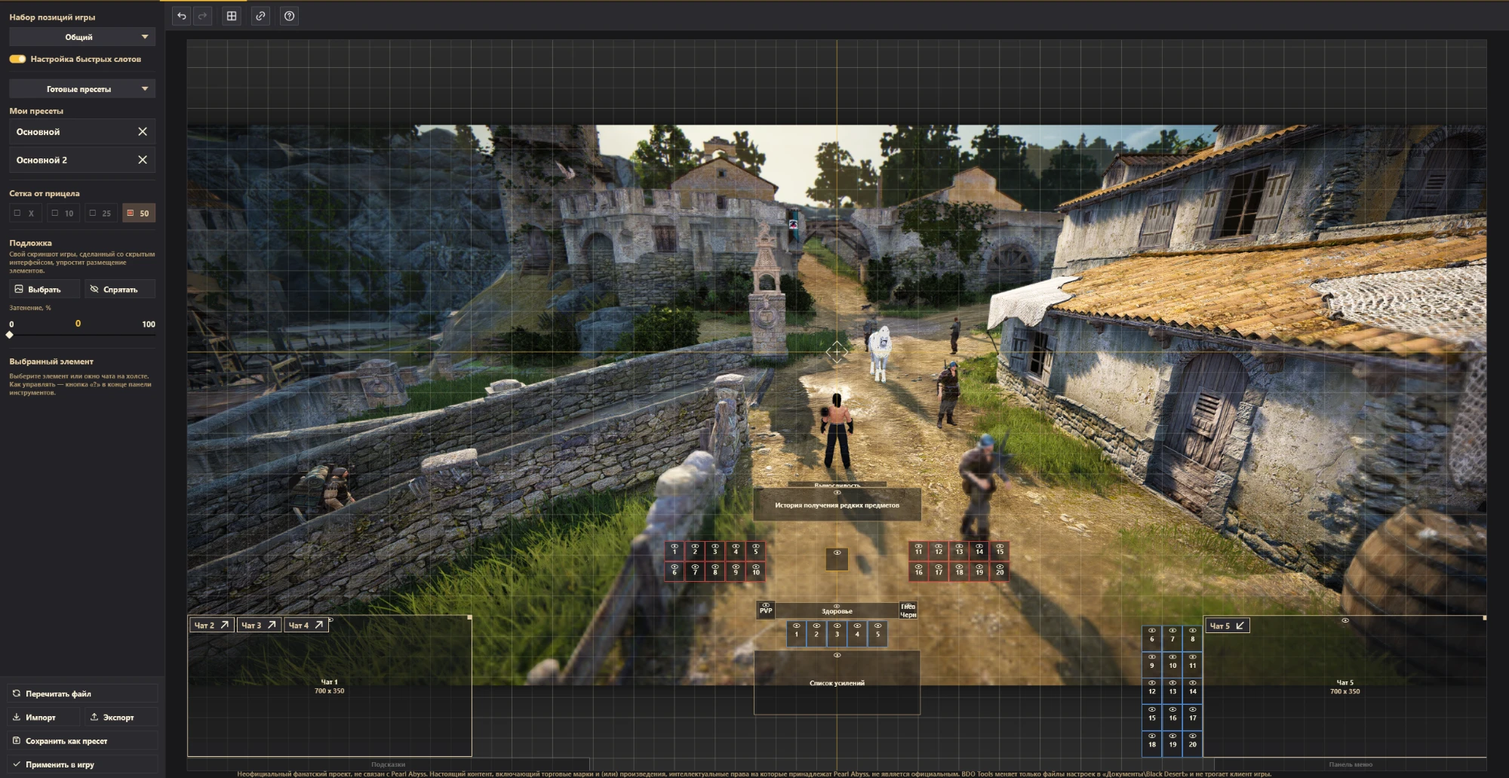
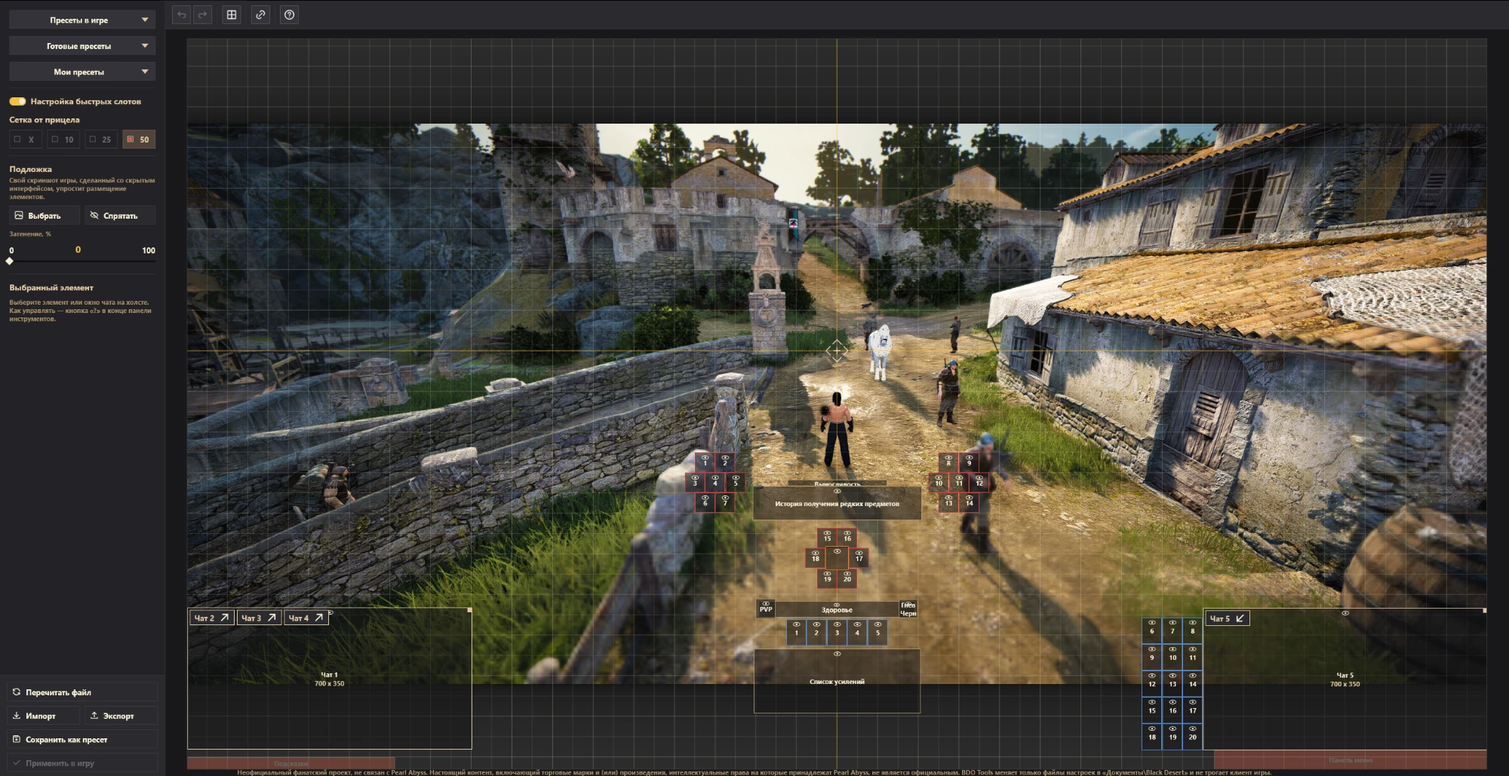
UI editor: preset dropdowns, preset replace, fixed element frames
- "Пресеты в игре", "Готовые пресеты", "Мои пресеты" are button dropdowns, in that order;
  own presets have a trash button in the list; no selected highlight in these lists
- save dialog can replace an existing own preset
- quick slot setting moved above the grid
- tips and menu bar frames: game-like heights and a transparent red fill
- DropdownSelect/OptionsMenu: trailing slot per option
- new editor screenshot in README

diff --git a/feature/uiEditor/src/commonMain/kotlin/com/layzen/bdotools/feature/uieditor/presentation/ui/sidebar/PresetList.kt b/feature/uiEditor/src/commonMain/kotlin/com/layzen/bdotools/feature/uieditor/presentation/ui/sidebar/PresetList.kt
@@ -1,15 +1,25 @@
 package com.layzen.bdotools.feature.uieditor.presentation.ui.sidebar
 
-import androidx.compose.foundation.layout.Arrangement
-import androidx.compose.foundation.layout.Column
+import androidx.compose.foundation.Image
+import androidx.compose.foundation.clickable
+import androidx.compose.foundation.interaction.MutableInteractionSource
+import androidx.compose.foundation.interaction.collectIsHoveredAsState
 import androidx.compose.foundation.layout.fillMaxWidth
+import androidx.compose.foundation.layout.size
 import androidx.compose.runtime.Composable
+import androidx.compose.runtime.getValue
+import androidx.compose.runtime.remember
 import androidx.compose.ui.Modifier
+import androidx.compose.ui.graphics.ColorFilter
+import androidx.compose.ui.input.pointer.PointerIcon
+import androidx.compose.ui.input.pointer.pointerHoverIcon
+import androidx.compose.ui.semantics.Role
 import com.layzen.bdotools.feature.uieditor.domain.BuiltInLayout
 import com.layzen.bdotools.feature.uieditor.presentation.event.SlotsEvent
 import com.layzen.bdotools.feature.uieditor.presentation.state.PresetRef
 import com.layzen.bdotools.feature.uieditor.presentation.state.SlotsState
 import com.layzen.bdotools.feature.uieditor.resources.Res
+import com.layzen.bdotools.feature.uieditor.resources.menu_delete
 import com.layzen.bdotools.feature.uieditor.resources.slots_preset_arc
 import com.layzen.bdotools.feature.uieditor.resources.slots_preset_5plus5and5plus5
 import com.layzen.bdotools.feature.uieditor.resources.slots_preset_game
@@ -19,45 +29,58 @@ import com.layzen.bdotools.feature.uieditor.resources.slots_preset_ring
 import com.layzen.bdotools.feature.uieditor.resources.slots_preset_sides
 import com.layzen.bdotools.feature.uieditor.resources.slots_preset_wings
 import com.layzen.bdotools.feature.uieditor.resources.slots_presets
+import com.layzen.bdotools.feature.uieditor.resources.slots_user_preset_delete
 import com.layzen.bdotools.feature.uieditor.resources.slots_user_presets
 import com.layzen.bdotools.feature.uieditor.resources.slots_user_presets_empty
-import com.layzen.bdotools.uikit.components.CloseButton
 import com.layzen.bdotools.uikit.components.DescriptionText
 import com.layzen.bdotools.uikit.components.DropdownSelect
-import com.layzen.bdotools.uikit.components.MenuItem
-import com.layzen.bdotools.uikit.components.SectionHeader
 import com.layzen.bdotools.uikit.theme.AppTheme
 import org.jetbrains.compose.resources.StringResource
+import org.jetbrains.compose.resources.painterResource
 import org.jetbrains.compose.resources.stringResource
 
 /**
- * Кнопка «Готовые пресеты» со списком: раскладка из файла игры и готовые раскладки слотов перезарядки.
- * Ниже — пресеты пользователя.
+ * Списки «Готовые пресеты» (раскладка из файла игры и готовые раскладки слотов перезарядки) и «Мои пресеты»
+ * (сохранённые раскладки, у каждой — корзина удаления). Пока своих пресетов нет — подсказка, где они лежат.
  */
 @Composable
 internal fun PresetList(state: SlotsState, onEvent: (SlotsEvent) -> Unit) {
-    BuiltInPresets(state.activePreset, onEvent)
-    Column(verticalArrangement = Arrangement.spacedBy(AppTheme.dimens.spaceXs)) {
-        SectionHeader(stringResource(Res.string.slots_user_presets))
-        if (state.presets.isEmpty()) DescriptionText(stringResource(Res.string.slots_user_presets_empty))
-        state.presets.forEach { preset ->
-            // Крестик удаления — внутри пункта, справа, на месте плашки
-            MenuItem(
-                preset.name,
-                onClick = { onEvent(SlotsEvent.UseUserPreset(preset.name)) },
-                selected = state.activePreset == PresetRef.User(preset.name),
-                badge = { CloseButton(onClick = { onEvent(SlotsEvent.RequestDelete(preset.name)) }) },
-            )
-        }
-    }
+    BuiltInPresets(onEvent)
+    DropdownSelect(
+        selected = null,
+        options = state.presets.map { it.name },
+        onSelect = { onEvent(SlotsEvent.UseUserPreset(it)) },
+        label = { it },
+        modifier = Modifier.fillMaxWidth(),
+        fieldText = stringResource(Res.string.slots_user_presets),
+        trailing = { name -> DeleteButton { onEvent(SlotsEvent.RequestDelete(name)) } },
+    )
+    if (state.presets.isEmpty()) DescriptionText(stringResource(Res.string.slots_user_presets_empty))
 }
 
-/** Готовые раскладки — выпадающим списком в стиле поля выбора, чтобы не занимать меню; выбранная подсвечена. */
+/** Корзина у пресета в списке: спрашивает подтверждение и удаляет; при наведении золотая. */
 @Composable
-private fun BuiltInPresets(active: PresetRef?, onEvent: (SlotsEvent) -> Unit) {
+private fun DeleteButton(onClick: () -> Unit) {
+    val interaction = remember { MutableInteractionSource() }
+    val hovered by interaction.collectIsHoveredAsState()
+    val colors = AppTheme.colors
+    Image(
+        painterResource(Res.drawable.menu_delete),
+        contentDescription = stringResource(Res.string.slots_user_preset_delete),
+        modifier = Modifier
+            .size(AppTheme.dimens.iconSize)
+            .pointerHoverIcon(PointerIcon.Hand)
+            .clickable(interaction, indication = null, role = Role.Button, onClick = onClick),
+        colorFilter = ColorFilter.tint(if (hovered) colors.accentGold else colors.textPrimary),
+    )
+}
+
+/** Готовые раскладки — выпадающим списком в стиле поля выбора, чтобы не занимать меню. */
+@Composable
+private fun BuiltInPresets(onEvent: (SlotsEvent) -> Unit) {
     val options = listOf<PresetRef>(PresetRef.Game) + BuiltInLayout.entries.map { PresetRef.BuiltIn(it) }
     DropdownSelect(
-        selected = active?.takeIf { it in options },
+        selected = null,
         options = options,
         onSelect = { ref -> onEvent(if (ref is PresetRef.BuiltIn) SlotsEvent.UseBuiltIn(ref.layout) else SlotsEvent.UseGameLayout) },
         label = { ref -> stringResource(if (ref is PresetRef.BuiltIn) ref.layout.title else Res.string.slots_preset_game) },

diff --git a/feature/uiEditor/src/commonMain/kotlin/com/layzen/bdotools/feature/uieditor/presentation/ui/dialog/SaveAsDialog.kt b/feature/uiEditor/src/commonMain/kotlin/com/layzen/bdotools/feature/uieditor/presentation/ui/dialog/SaveAsDialog.kt
@@ -13,20 +13,27 @@ import com.layzen.bdotools.feature.uieditor.presentation.ui.SlotsDimens
 import com.layzen.bdotools.feature.uieditor.resources.Res
 import com.layzen.bdotools.feature.uieditor.resources.slots_cancel
 import com.layzen.bdotools.feature.uieditor.resources.slots_save
+import com.layzen.bdotools.feature.uieditor.resources.slots_save_as_replace
+import com.layzen.bdotools.feature.uieditor.resources.slots_save_replace
 import com.layzen.bdotools.feature.uieditor.resources.slots_save_as_description
 import com.layzen.bdotools.feature.uieditor.resources.slots_save_as_name
 import com.layzen.bdotools.feature.uieditor.resources.slots_save_as_title
 import com.layzen.bdotools.uikit.components.ActionButton
 import com.layzen.bdotools.uikit.components.DescriptionText
+import com.layzen.bdotools.uikit.components.DropdownSelect
 import com.layzen.bdotools.uikit.components.InputField
 import com.layzen.bdotools.uikit.components.ModalWindow
 import com.layzen.bdotools.uikit.theme.AppTheme
 import org.jetbrains.compose.resources.stringResource
 
-/** Название нового пресета. */
+/**
+ * Сохранение раскладки пресетом: новое название или замена своего пресета [presets] из списка — выбор подставляет
+ * его название. Если название совпадает с существующим, кнопка — «Заменить».
+ */
 @Composable
-internal fun SaveAsDialog(dialog: SlotsDialog.SaveAs, onEvent: (SlotsEvent) -> Unit) {
+internal fun SaveAsDialog(dialog: SlotsDialog.SaveAs, presets: List<String>, onEvent: (SlotsEvent) -> Unit) {
     val close = { onEvent(SlotsEvent.CloseDialog) }
+    val replacing = dialog.name.trim() in presets
     ModalWindow(
         title = stringResource(Res.string.slots_save_as_title),
         onDismissRequest = close,
@@ -34,7 +41,7 @@ internal fun SaveAsDialog(dialog: SlotsDialog.SaveAs, onEvent: (SlotsEvent) -> U
         footer = {
             ActionButton(stringResource(Res.string.slots_cancel), onClick = close)
             ActionButton(
-                stringResource(Res.string.slots_save),
+                stringResource(if (replacing) Res.string.slots_save_replace else Res.string.slots_save),
                 onClick = { onEvent(SlotsEvent.ConfirmSaveAs) },
                 enabled = dialog.name.isNotBlank(),
             )
@@ -47,6 +54,16 @@ internal fun SaveAsDialog(dialog: SlotsDialog.SaveAs, onEvent: (SlotsEvent) -> U
                 modifier = Modifier.fillMaxWidth(),
                 placeholder = stringResource(Res.string.slots_save_as_name),
             )
+            if (presets.isNotEmpty()) {
+                DropdownSelect(
+                    selected = null,
+                    options = presets,
+                    onSelect = { onEvent(SlotsEvent.SaveAsNameChanged(it)) },
+                    label = { it },
+                    modifier = Modifier.fillMaxWidth(),
+                    fieldText = stringResource(Res.string.slots_save_as_replace),
+                )
+            }
             DescriptionText(stringResource(Res.string.slots_save_as_description))
         }
     }

diff --git a/feature/uiEditor/src/commonMain/kotlin/com/layzen/bdotools/feature/uieditor/presentation/ui/sidebar/GamePresetSettings.kt b/feature/uiEditor/src/commonMain/kotlin/com/layzen/bdotools/feature/uieditor/presentation/ui/sidebar/GamePresetSettings.kt
@@ -1,29 +1,29 @@
 package com.layzen.bdotools.feature.uieditor.presentation.ui.sidebar
 
-import androidx.compose.foundation.layout.Arrangement
-import androidx.compose.foundation.layout.Column
+import androidx.compose.foundation.layout.fillMaxWidth
 import androidx.compose.runtime.Composable
+import androidx.compose.ui.Modifier
 import com.layzen.bdotools.feature.uieditor.presentation.event.SlotsEvent
 import com.layzen.bdotools.feature.uieditor.presentation.state.SlotsState
 import com.layzen.bdotools.feature.uieditor.presentation.ui.gamePresetTitle
 import com.layzen.bdotools.feature.uieditor.resources.Res
 import com.layzen.bdotools.feature.uieditor.resources.slots_game_preset
 import com.layzen.bdotools.uikit.components.DropdownSelect
-import com.layzen.bdotools.uikit.components.SectionHeader
-import com.layzen.bdotools.uikit.theme.AppTheme
 import org.jetbrains.compose.resources.stringResource
 
-/** Какой набор позиций из файла игры открыт в редакторе: общий или «Пресет 1–3». Пресеты, которых нет в файле, не показываются. */
+/**
+ * «Пресеты в игре» — список наборов позиций из файла игры: общий или «Пресет 1–3».
+ * Пресеты, которых нет в файле, не показываются.
+ */
 @Composable
 internal fun GamePresetSettings(state: SlotsState, onEvent: (SlotsEvent) -> Unit) {
     val loaded = state.loaded ?: return
-    Column(verticalArrangement = Arrangement.spacedBy(AppTheme.dimens.spaceS)) {
-        SectionHeader(stringResource(Res.string.slots_game_preset))
-        DropdownSelect(
-            selected = loaded.edited,
-            options = loaded.presets.keys.sorted(),
-            onSelect = { onEvent(SlotsEvent.SelectGamePreset(it)) },
-            label = { gamePresetTitle(it) },
-        )
-    }
+    DropdownSelect(
+        selected = null,
+        options = loaded.presets.keys.sorted(),
+        onSelect = { onEvent(SlotsEvent.SelectGamePreset(it)) },
+        label = { gamePresetTitle(it) },
+        modifier = Modifier.fillMaxWidth(),
+        fieldText = stringResource(Res.string.slots_game_preset),
+    )
 }

diff --git a/feature/uiEditor/src/commonMain/kotlin/com/layzen/bdotools/feature/uieditor/domain/FixedElement.kt b/feature/uiEditor/src/commonMain/kotlin/com/layzen/bdotools/feature/uieditor/domain/FixedElement.kt
@@ -1,16 +1,17 @@
 package com.layzen.bdotools.feature.uieditor.domain
 
 /**
- * Элемент интерфейса, который в игре не двигается: редактор только показывает его, чтобы не ставить на него слоты.
- * Прижат к нижнему углу экрана — правому, если [atRight]. Ширина — доля ширины экрана [widthShare] (примерно),
- * высота — [height] в UI-px. Замерено по скриншоту 2560×1440 при масштабе 0.8.
+ * Элемент интерфейса, который в игре не двигается и в файл не пишется («[не изменить]» в режиме правки игры):
+ * редактор только показывает его, чтобы не ставить на него слоты. Прижат к нижнему углу экрана — правому,
+ * если [atRight]. Ширина — доля ширины экрана [widthShare] (примерно), высота — [height] в UI-px.
+ * Замерено по скриншотам 2560×1440 при масштабе 0.8.
  */
 enum class FixedElement(val widthShare: Double, val height: Int, val atRight: Boolean) {
     /** Полоса подсказок «TIP» слева внизу. */
-    Tips(widthShare = 0.31, height = 34, atRight = false),
+    Tips(widthShare = 0.16, height = 30, atRight = false),
 
     /** Панель кнопок меню справа внизу. */
-    MenuBar(widthShare = 0.21, height = 34, atRight = true),
+    MenuBar(widthShare = 0.21, height = 48, atRight = true),
     ;
 
     /** Где элемент стоит на экране [screen], в UI-px от левого верхнего угла. */

diff --git a/platform/uikit/src/commonMain/kotlin/com/layzen/bdotools/uikit/components/OptionsMenu.kt b/platform/uikit/src/commonMain/kotlin/com/layzen/bdotools/uikit/components/OptionsMenu.kt
@@ -9,7 +9,8 @@ import com.layzen.bdotools.uikit.theme.AppTheme
 
 /**
  * Всплывающий список вариантов под элементом, к которому он привязан (ставится в тот же `Box`).
- * Выбранный вариант подсвечен золотом. [icon] — необязательная иконка слева от названия.
+ * Выбранный вариант подсвечен золотом. [icon] — необязательная иконка слева от названия, [trailing] — справа
+ * (например, кнопка удаления варианта: её нажатие не выбирает вариант).
  * Список не выше `optionsMenuMaxHeight`; длинный прокручивается, справа видна полоса прокрутки.
  */
 @Composable
@@ -22,6 +23,7 @@ fun <T> OptionsMenu(
     label: @Composable (T) -> String,
     modifier: Modifier = Modifier,
     icon: (@Composable (T) -> Unit)? = null,
+    trailing: (@Composable (T) -> Unit)? = null,
 ) {
     val scroll = rememberScrollState()
     MenuPopup(
@@ -34,6 +36,7 @@ fun <T> OptionsMenu(
             DropdownMenuItem(
                 text = { MenuOptionText(label(option), highlighted = option == selected) },
                 leadingIcon = icon?.let { { it(option) } },
+                trailingIcon = trailing?.let { { it(option) } },
                 onClick = {
                     onDismissRequest()
                     onSelect(option)

diff --git a/platform/uikit/src/commonMain/kotlin/com/layzen/bdotools/uikit/components/DropdownSelect.kt b/platform/uikit/src/commonMain/kotlin/com/layzen/bdotools/uikit/components/DropdownSelect.kt
@@ -35,7 +35,8 @@ import com.layzen.bdotools.uikit.theme.AppTheme
 /**
  * Выпадающий список: тёмное поле со значением по центру и треугольником справа. Повторный клик по полю закрывает список.
  * [fieldText] — постоянная подпись поля вместо выбранного значения (список действий вроде «Готовые пресеты»);
- * [selected] тогда может быть `null` — в списке ничего не подсвечено.
+ * [selected] тогда может быть `null` — в списке ничего не подсвечено. [trailing] — элемент справа от варианта в списке,
+ * как у [OptionsMenu].
  */
 @Composable
 fun <T> DropdownSelect(
@@ -45,6 +46,7 @@ fun <T> DropdownSelect(
     label: @Composable (T) -> String,
     modifier: Modifier = Modifier,
     fieldText: String? = null,
+    trailing: (@Composable (T) -> Unit)? = null,
 ) {
     val colors = AppTheme.colors
     val dimens = AppTheme.dimens
@@ -95,6 +97,7 @@ fun <T> DropdownSelect(
             selected = selected,
             onSelect = onSelect,
             label = label,
+            trailing = trailing,
             modifier = if (anchorWidth != Dp.Unspecified) Modifier.width(anchorWidth) else Modifier,
         )
     }

diff --git a/feature/uiEditor/src/commonMain/kotlin/com/layzen/bdotools/feature/uieditor/presentation/ui/sidebar/SlotsSidebar.kt b/feature/uiEditor/src/commonMain/kotlin/com/layzen/bdotools/feature/uieditor/presentation/ui/sidebar/SlotsSidebar.kt
@@ -6,16 +6,16 @@ import com.layzen.bdotools.feature.uieditor.presentation.state.SlotsState
 import com.layzen.bdotools.uikit.components.SectionDivider
 
 /**
- * Меню слева (аккаунт выбирается в верхней навигации): набор позиций игры, пресеты, сетка, подложка и координаты выбранного слота.
+ * Меню слева (аккаунт выбирается в верхней навигации): списки «Пресеты в игре», «Готовые пресеты», «Мои пресеты»;
+ * «Настройка быстрых слотов» и сетка, подложка и координаты выбранного.
  * Прокрутку и отступы даёт страница `ToolPage`.
  */
 @Composable
 internal fun SlotsSidebar(state: SlotsState, onEvent: (SlotsEvent) -> Unit) {
     GamePresetSettings(state, onEvent)
-    if (state.loaded != null) QuickSlotSettings(state.layout.customQuickSlots) { onEvent(SlotsEvent.SetCustomQuickSlots(it)) }
-    SectionDivider()
     PresetList(state, onEvent)
     SectionDivider()
+    if (state.loaded != null) QuickSlotSettings(state.layout.customQuickSlots) { onEvent(SlotsEvent.SetCustomQuickSlots(it)) }
     GridSettings(state, onEvent)
     SectionDivider()
     BackgroundSettings(state, onEvent)

diff --git a/feature/uiEditor/src/commonMain/kotlin/com/layzen/bdotools/feature/uieditor/presentation/ui/editor/FixedElementFrame.kt b/feature/uiEditor/src/commonMain/kotlin/com/layzen/bdotools/feature/uieditor/presentation/ui/editor/FixedElementFrame.kt
@@ -22,7 +22,7 @@ import com.layzen.bdotools.uikit.theme.AppTheme
 import org.jetbrains.compose.resources.stringResource
 import kotlin.math.roundToInt
 
-/** Неподвижный элемент игры на холсте: серая рамка с названием. Нажатия не перехватывает. */
+/** Неподвижный элемент игры на холсте: серая рамка с прозрачно-красной заливкой, как в режиме правки игры, и названием. Нажатия не перехватывает. */
 @Composable
 internal fun FixedElementFrame(element: FixedElement, screen: ScreenSpace, scale: Float) {
     val density = LocalDensity.current
@@ -38,7 +38,7 @@ internal fun FixedElementFrame(element: FixedElement, screen: ScreenSpace, scale
                 with(density) { ((area.right - area.left).toFloat() * scale).toDp() },
                 with(density) { ((area.bottom - area.top).toFloat() * scale).toDp() },
             )
-            .background(AppTheme.colors.backgroundDeep.copy(alpha = SlotsDimens.SLOT_FILL_ALPHA))
+            .background(AppTheme.colors.danger.copy(alpha = SlotsDimens.FIXED_FILL_ALPHA))
             .border(SlotsDimens.slotBorder, fixedElementColor()),
         contentAlignment = Alignment.Center,
     ) {

diff --git a/feature/uiEditor/src/commonMain/kotlin/com/layzen/bdotools/feature/uieditor/presentation/ui/dialog/SlotsDialogs.kt b/feature/uiEditor/src/commonMain/kotlin/com/layzen/bdotools/feature/uieditor/presentation/ui/dialog/SlotsDialogs.kt
@@ -17,7 +17,7 @@ internal fun SlotsDialogs(state: SlotsState, onEvent: (SlotsEvent) -> Unit) {
     val close = { onEvent(SlotsEvent.CloseDialog) }
     when (val dialog = state.dialog) {
         null -> Unit
-        is SlotsDialog.SaveAs -> SaveAsDialog(dialog, onEvent)
+        is SlotsDialog.SaveAs -> SaveAsDialog(dialog, state.presets.map { it.name }, onEvent)
         is SlotsDialog.Import -> ImportDialog(dialog, onEvent)
         is SlotsDialog.Preview -> state.loaded?.game?.screen?.let {
             LayoutPreviewDialog(dialog, it, state.background, state.backgroundShown, state.backgroundDim, onEvent)

diff --git a/feature/uiEditor/src/commonTest/kotlin/com/layzen/bdotools/feature/uieditor/domain/FixedElementTest.kt b/feature/uiEditor/src/commonTest/kotlin/com/layzen/bdotools/feature/uieditor/domain/FixedElementTest.kt
@@ -9,7 +9,7 @@ class FixedElementTest {
 
     @Test
     fun elementsSitInBottomCorners() {
-        assertEquals(ScreenArea(0.0, 1766.0, 992.0, 1800.0), FixedElement.Tips.area(screen))
-        assertEquals(ScreenArea(3200.0 - 672.0, 1766.0, 3200.0, 1800.0), FixedElement.MenuBar.area(screen))
+        assertEquals(ScreenArea(0.0, 1770.0, 512.0, 1800.0), FixedElement.Tips.area(screen))
+        assertEquals(ScreenArea(3200.0 - 672.0, 1752.0, 3200.0, 1800.0), FixedElement.MenuBar.area(screen))
     }
 }

diff --git a/feature/uiEditor/src/commonMain/kotlin/com/layzen/bdotools/feature/uieditor/presentation/ui/SlotsDimens.kt b/feature/uiEditor/src/commonMain/kotlin/com/layzen/bdotools/feature/uieditor/presentation/ui/SlotsDimens.kt
@@ -29,6 +29,7 @@ internal object SlotsDimens {
     const val AXIS_ALPHA = 0.7f
     const val CROSSHAIR_ALPHA = 0.85f
     const val SLOT_FILL_ALPHA = 0.55f
+    const val FIXED_FILL_ALPHA = 0.35f
     const val HIDDEN_ALPHA = 0.35f
     const val MARQUEE_FILL_ALPHA = 0.12f
     const val LABEL_FILL_ALPHA = 0.3f
